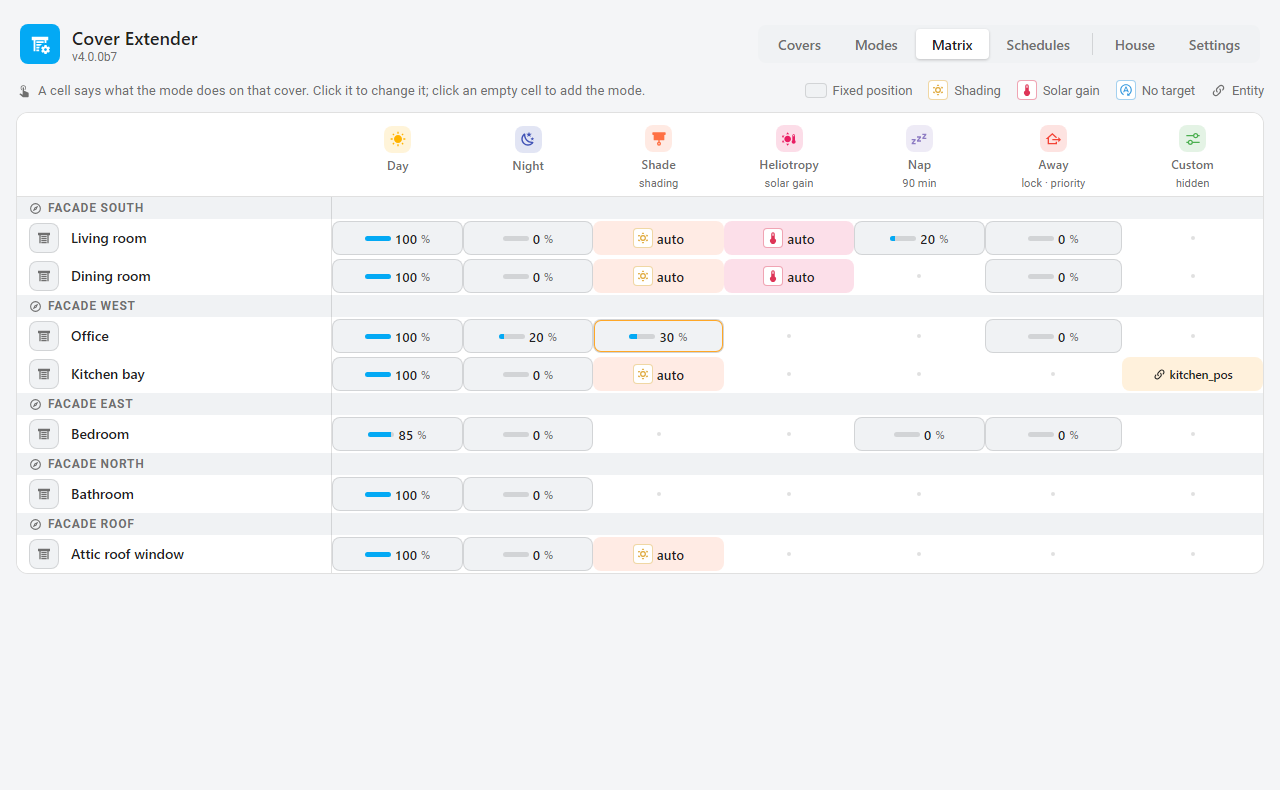
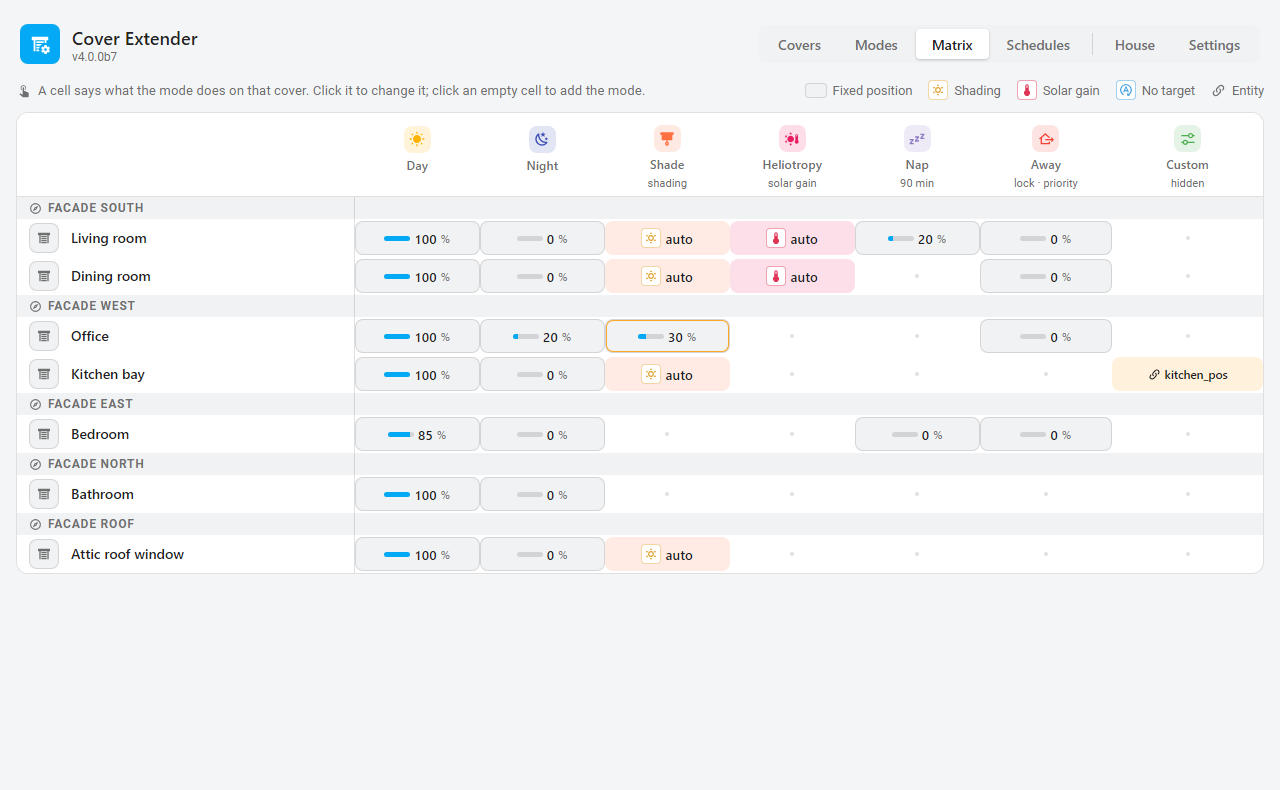
Matrix: use the whole width, fit the window's height
The page's 1400px cap made a 15-mode matrix scroll sideways with room left
on the screen, and the box's height was a guess (100vh - 190px) that could
add a second vertical scrollbar. The matrix tab now takes the full width,
the box ends where the window does (measured, redone on resize), and the
columns are a little narrower (mode options may wrap under the name).

diff --git a/custom_components/cover_extender/frontend/cover-extender-admin.js b/custom_components/cover_extender/frontend/cover-extender-admin.js
@@ -1225,6 +1225,7 @@ const STYLE = `
   }
   * { box-sizing: border-box; }
   .wrap { max-width: 1400px; margin: 0 auto; padding: var(--fp-s4) var(--fp-s4) calc(var(--fp-s5) * 2); }
+  .wrap.full { max-width: none; }
 
   header.bar {
     display: flex; align-items: center; gap: var(--fp-s3); flex-wrap: wrap;
@@ -1288,7 +1289,7 @@ const STYLE = `
 
   .m-scroll { overflow: auto; border: 1px solid var(--divider-color);
               border-radius: var(--ha-card-border-radius, 12px); position: relative;
-              background: var(--card-background-color); max-height: calc(100vh - 190px); }
+              background: var(--card-background-color); }
   table.matrix { border-collapse: separate; border-spacing: 0; min-width: 100%; width: max-content;
                  font-variant-numeric: tabular-nums; }
   .matrix th, .matrix td { padding: 0; }
@@ -1298,15 +1299,15 @@ const STYLE = `
                      border-right: 1px solid var(--divider-color); text-align: left; font-weight: normal; }
   .matrix thead th.corner { left: 0; z-index: 3; }
   .mh { display: flex; flex-direction: column; align-items: center; gap: var(--fp-s1); width: 100%;
-        padding: var(--fp-s3) var(--fp-s2) var(--fp-sh); border: 0; background: none; font: inherit; cursor: pointer;
-        min-width: 76px; font-weight: 500; font-size: var(--f-11-5); color: var(--secondary-text-color); }
+        padding: var(--fp-s3) var(--fp-s1) var(--fp-sh); border: 0; background: none; font: inherit; cursor: pointer;
+        min-width: 68px; font-weight: 500; font-size: var(--f-11-5); color: var(--secondary-text-color); }
   .mh:hover { color: var(--primary-text-color); }
   .mh .mico { width: 27px; height: 27px; border-radius: var(--fp-ctl-r);
               display: flex; align-items: center; justify-content: center; }
   .mh .mico ha-icon { --mdc-icon-size: 16px; width: 16px; height: 16px; }
   /* What sets the mode apart, in words, under its name. */
-  .mh .tags { min-height: 13px; font-size: var(--f-10-5); font-weight: 400; white-space: nowrap;
-              color: var(--secondary-text-color); }
+  .mh .tags { min-height: 13px; max-width: 92px; font-size: var(--f-10-5); font-weight: 400; line-height: 1.25;
+              text-align: center; color: var(--secondary-text-color); }
   .rowh { display: flex; align-items: center; gap: var(--fp-s3);
           padding: var(--fp-s1) var(--fp-s4) var(--fp-s1) var(--fp-s3); min-width: 180px; }
   .rowh img, .rowh .pic { width: var(--fp-pill-h); height: var(--fp-pill-h);
@@ -1321,7 +1322,7 @@ const STYLE = `
                   color: var(--secondary-text-color); }
   tr.facade .fl ha-icon { --mdc-icon-size: 13px; width: 13px; height: 13px; }
   .cell { padding: var(--fp-s1); }
-  .cv { height: 34px; min-width: 70px; border-radius: var(--fp-ctl-r); display: flex; align-items: center;
+  .cv { height: 34px; min-width: 64px; border-radius: var(--fp-ctl-r); display: flex; align-items: center;
         justify-content: center; gap: var(--fp-s1); font-size: var(--f-12-5); font-weight: 600; cursor: pointer;
         border: 1px solid transparent; color: var(--primary-text-color); }
   .cv:hover { border-color: var(--primary-color); }
@@ -2403,7 +2404,10 @@ class CoverExtenderPanel extends HTMLElement {
     if (!this.shadowRoot.firstChild) this._renderShell();
     const wrap = this.shadowRoot.querySelector(".wrap");
     wrap.replaceChildren();
+    // The matrix grows with the number of modes: it takes the whole width.
+    wrap.classList.toggle("full", this._tab === "matrice");
     this._syncSaveBar = null;
+    this._mxFit = null;
     // The popover is mounted on the shadow root, so clearing .wrap does not
     // remove it — close it explicitly (also detaches its scroll listeners).
     this._closePopover();
@@ -2688,6 +2692,19 @@ class CoverExtenderPanel extends HTMLElement {
     box.append(scroll, list);
     wrap.append(box);
     this._matrixScroll = scroll;
+    // The table scrolls inside its box only past the bottom of the window:
+    // the box ends where the page does, measured rather than guessed, so the
+    // page itself never scrolls as well.
+    this._mxFit = () => {
+      if (!scroll.isConnected) return;
+      const pad = parseFloat(getComputedStyle(wrap).paddingBottom) || 0;
+      scroll.style.maxHeight = `${Math.max(240, Math.floor(window.innerHeight - scroll.getBoundingClientRect().top - pad))}px`;
+    };
+    if (!this._mxFitBound) {
+      this._mxFitBound = true;
+      window.addEventListener("resize", () => this._mxFit?.());
+    }
+    requestAnimationFrame(() => this._mxFit?.());
   }
 
   _cellNode(cover, mode, onApply = null) {
